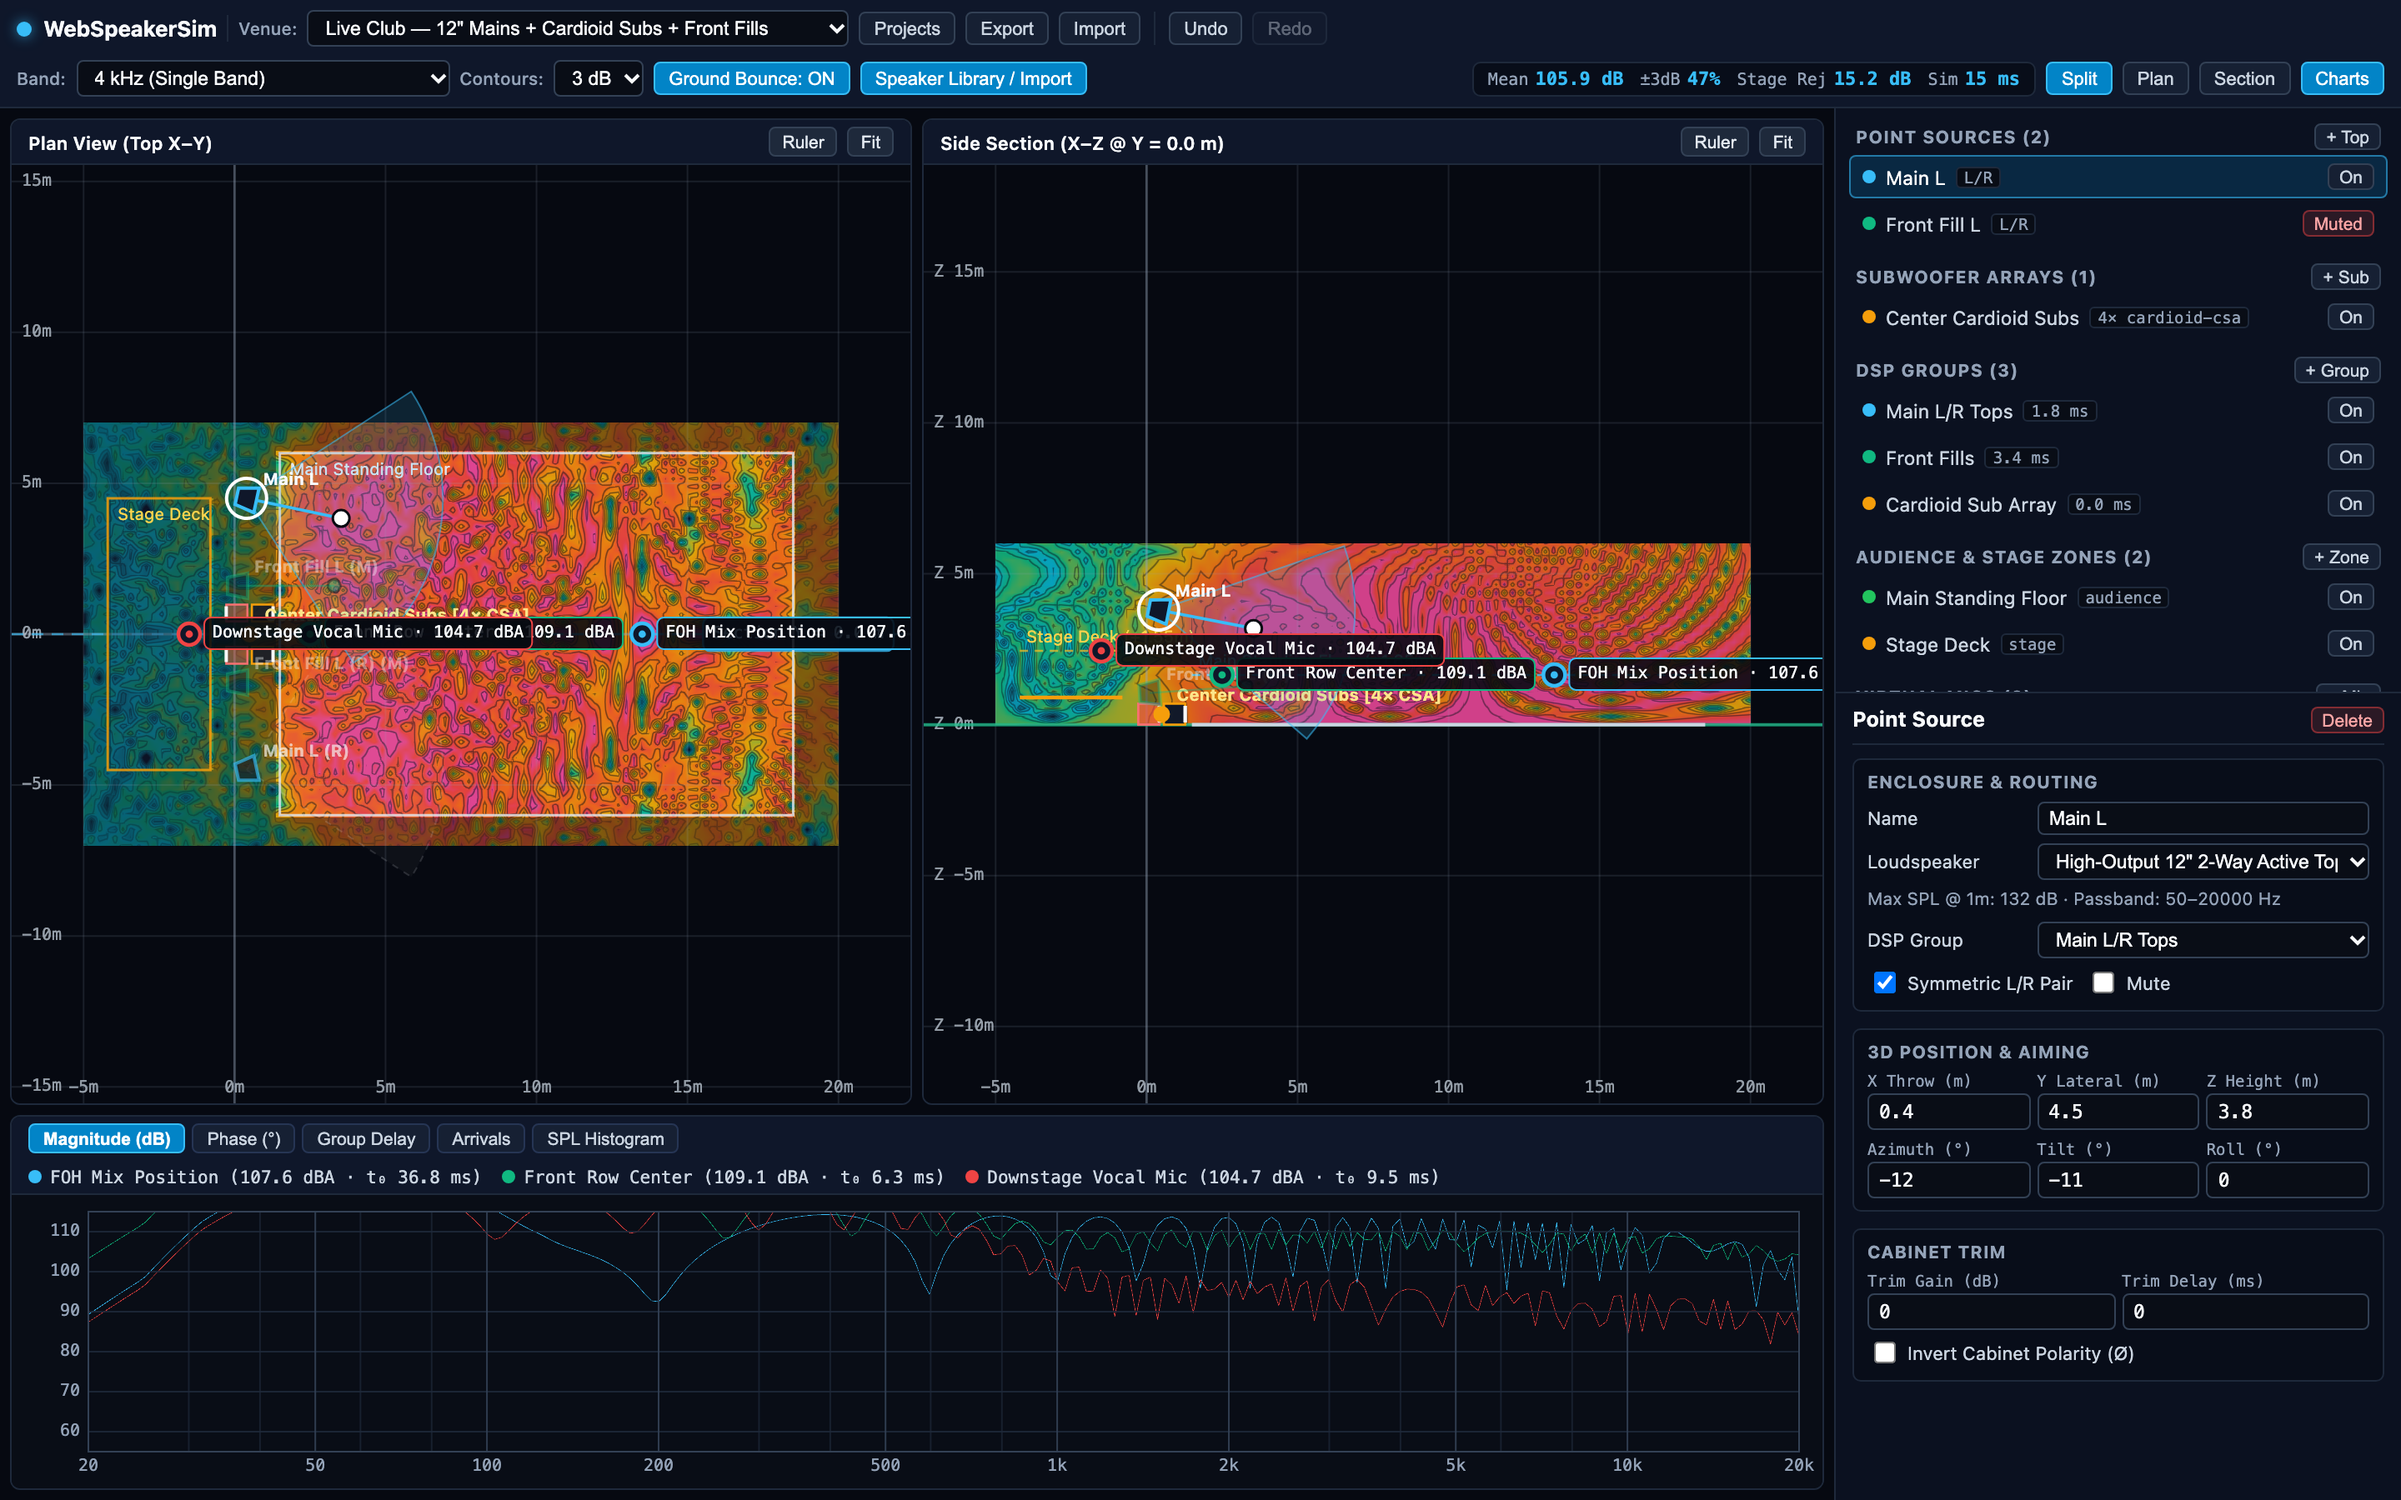
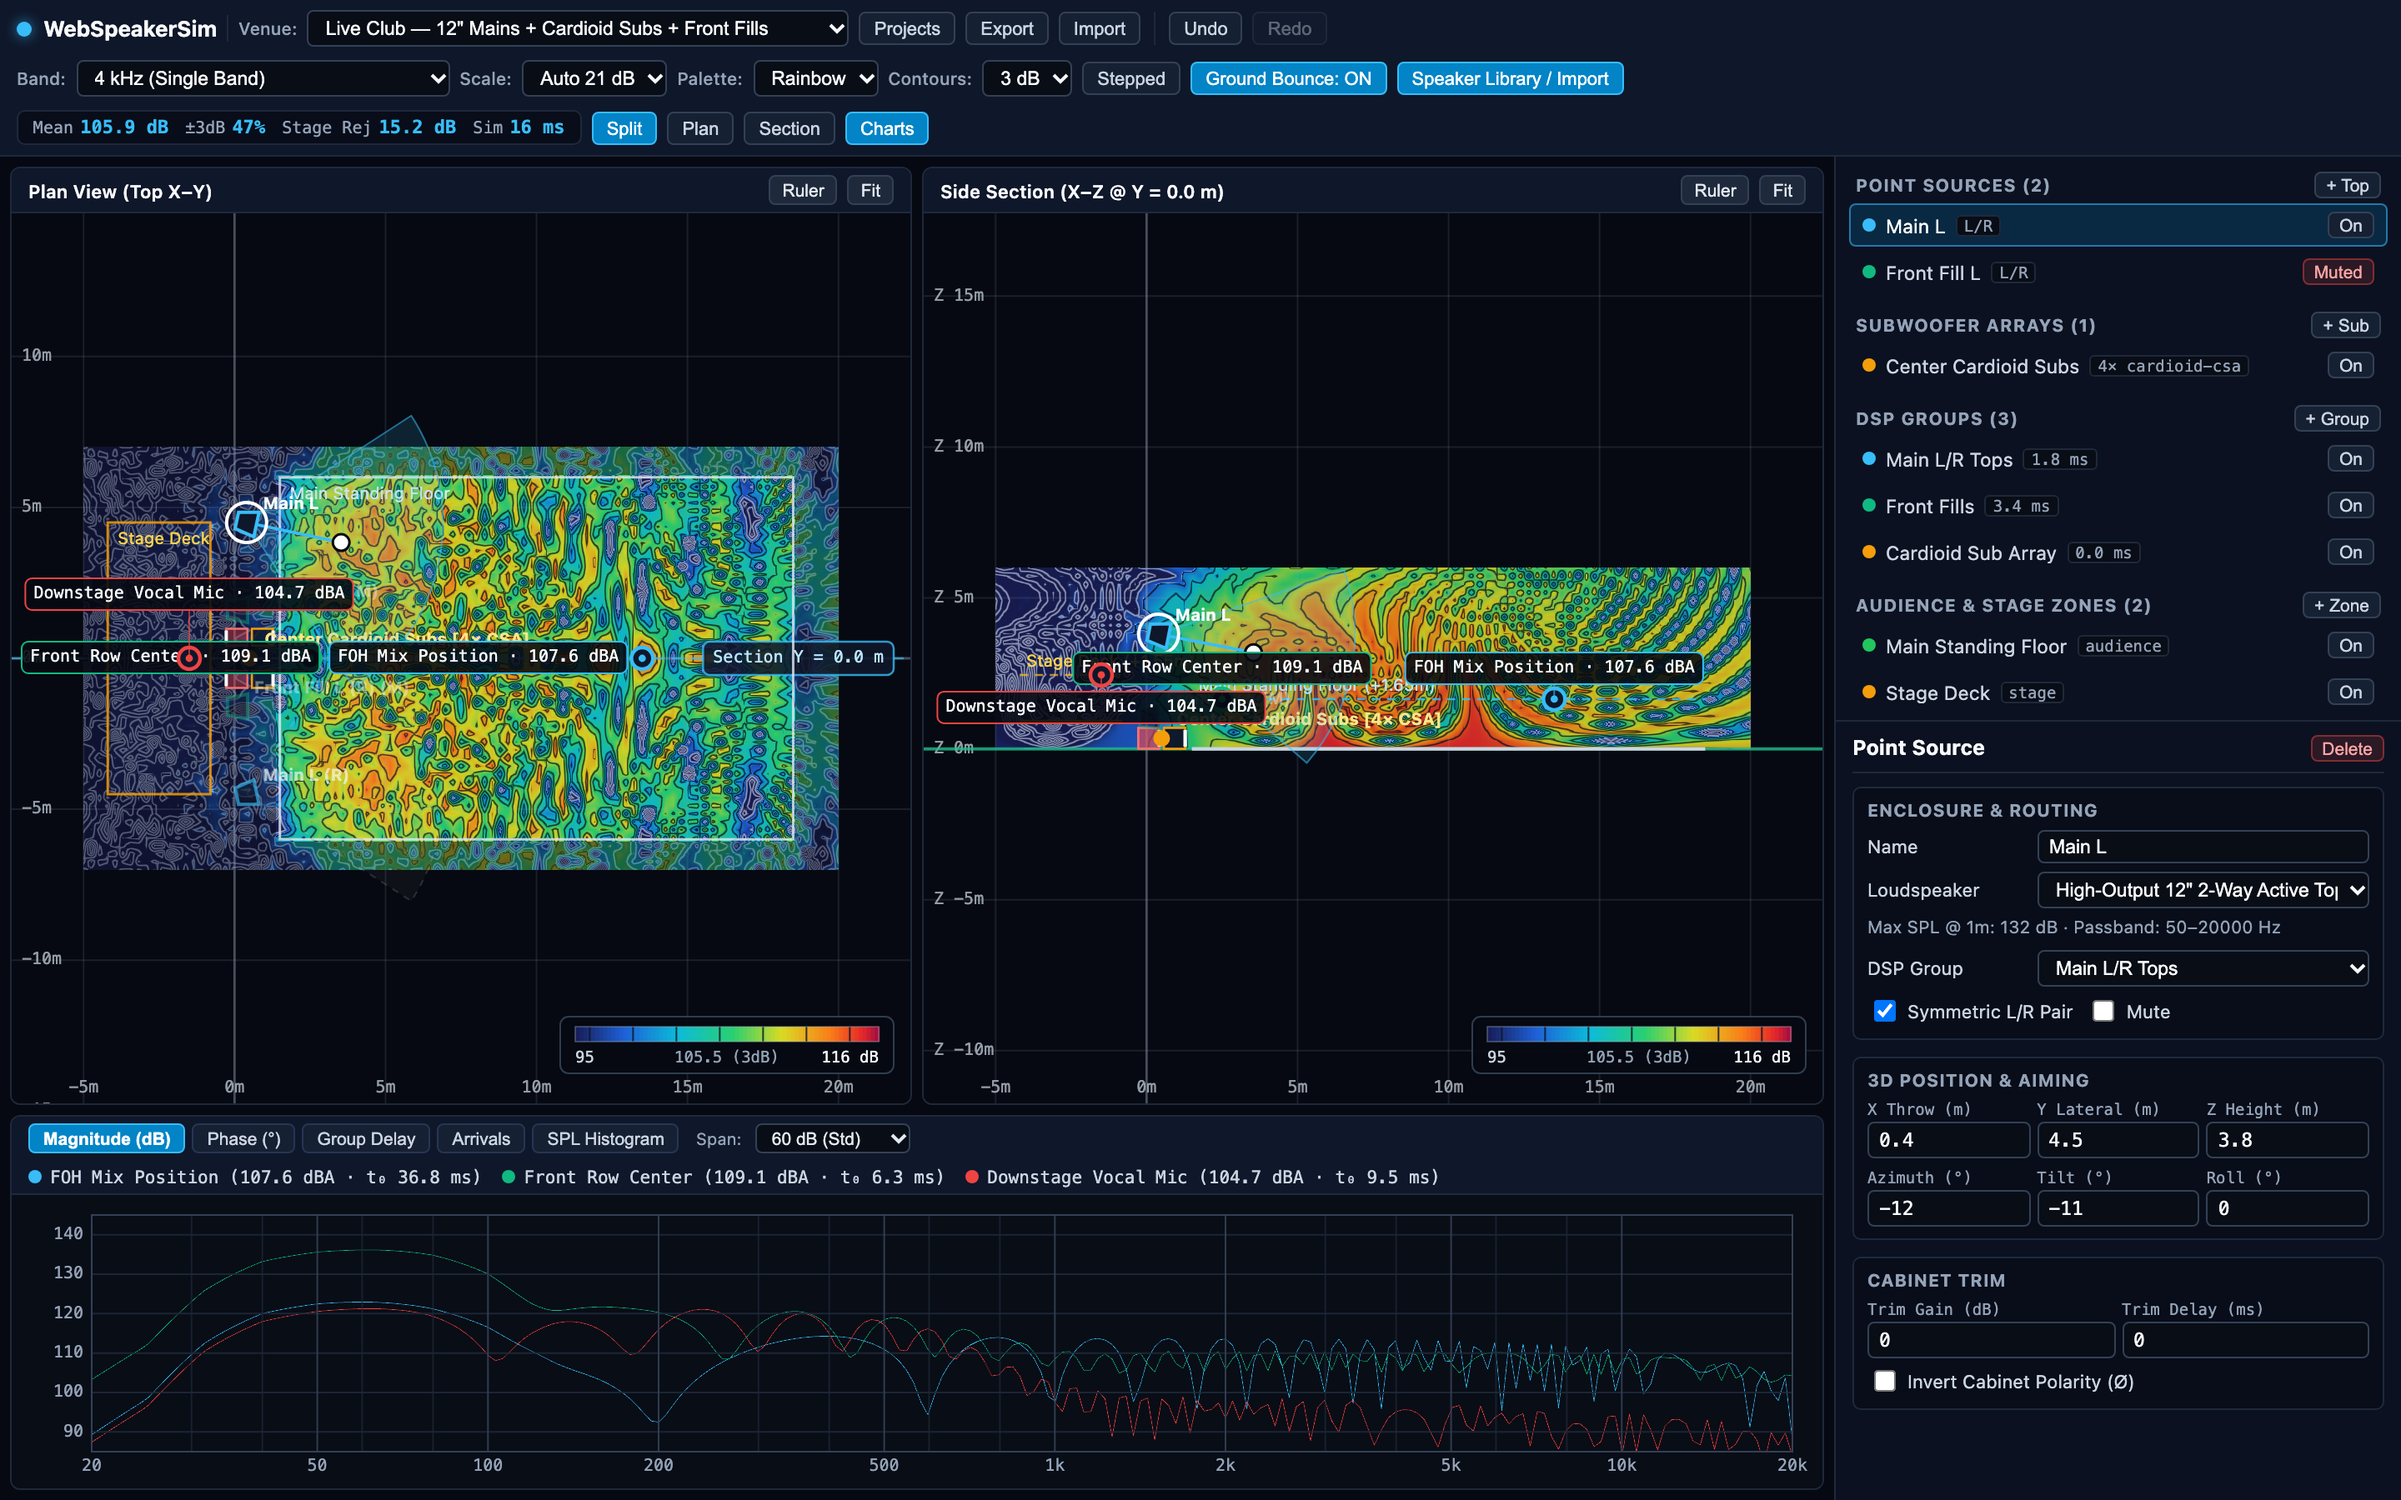
Avoid overlapping mic badges and refresh user guide screenshots

diff --git a/src/viewport/canvas-cad-painter.ts b/src/viewport/canvas-cad-painter.ts
@@ -103,6 +103,9 @@ export function paintViewportCadOverlay(
   // 1. Metric Grid
   drawMetricGrid(ctx, camera, cssWidth, cssHeight, mode);
 
+  // Track pill rectangles so Virtual Mic badges never collide with each other or Section label
+  const occupiedPills: Array<{ x: number; y: number; w: number; h: number }> = [];
+
   // 2. Ground Datum (Section View) or Centerline + Slice Line (Plan View)
   if (mode === 'section') {
     const groundRef = scene.reflectors.find((r) => r.id === DEFAULT_GROUND_REFLECTOR.id);
@@ -133,10 +136,13 @@ export function paintViewportCadOverlay(
     const label = `Section Y = ${sliceY.toFixed(1)} m`;
     ctx.font = '10px ui-monospace, SFMono-Regular, Menlo, monospace';
     const tw = ctx.measureText(label).width + 12;
+    const sx = cssWidth - tw - 10;
+    const sy = pSlice.py - 10;
+    occupiedPills.push({ x: sx - 3, y: sy - 2, w: tw + 6, h: 24 });
     ctx.fillStyle = 'rgba(15, 23, 42, 0.88)';
     ctx.strokeStyle = 'rgba(56, 189, 248, 0.8)';
     ctx.beginPath();
-    ctx.roundRect(cssWidth - tw - 10, pSlice.py - 10, tw, 20, 4);
+    ctx.roundRect(sx, sy, tw, 20, 4);
     ctx.fill();
     ctx.stroke();
     ctx.fillStyle = '#bae6fd';
@@ -322,8 +328,38 @@ export function paintViewportCadOverlay(
     ctx.font = '10px ui-monospace, SFMono-Regular, Menlo, monospace';
     const bw = ctx.measureText(badge).width + 10;
     const bh = 19;
-    const bx = p.px + 9 + bw <= cssWidth - 6 ? p.px + 9 : Math.max(6, p.px - 9 - bw);
-    const by = Math.max(6, Math.min(cssHeight - bh - 6, p.py - 10));
+    const clampX = (x: number) => Math.max(6, Math.min(cssWidth - bw - 6, x));
+    const clampY = (y: number) => Math.max(6, Math.min(cssHeight - bh - 6, y));
+    const candidates = [
+      { x: clampX(p.px + 9), y: clampY(p.py - 10), fitsRight: p.px + 9 + bw <= cssWidth - 6 },
+      { x: clampX(p.px - bw * 0.5), y: clampY(p.py - 28), fitsRight: true },
+      { x: clampX(p.px - bw * 0.5), y: clampY(p.py + 10), fitsRight: true },
+      { x: clampX(p.px - 9 - bw), y: clampY(p.py - 10), fitsRight: true },
+      { x: clampX(p.px - bw * 0.5), y: clampY(p.py - 48), fitsRight: true },
+      { x: clampX(p.px - bw * 0.5), y: clampY(p.py + 30), fitsRight: true },
+    ];
+    const overlapsAny = (cx: number, cy: number) =>
+      occupiedPills.some(
+        (r) => cx < r.x + r.w && cx + bw > r.x && cy < r.y + r.h && cy + bh > r.y
+      );
+    const chosen =
+      candidates.find((cnd) => cnd.fitsRight && !overlapsAny(cnd.x, cnd.y)) ?? candidates[1];
+    const bx = chosen.x;
+    const by = chosen.y;
+    occupiedPills.push({ x: bx - 2, y: by - 2, w: bw + 4, h: bh + 4 });
+
+    // Subtle leader tick when badge is displaced vertically from mic dot
+    if (Math.abs(by + bh * 0.5 - p.py) > 13) {
+      ctx.strokeStyle = mic.color;
+      ctx.globalAlpha = 0.65;
+      ctx.lineWidth = 1;
+      ctx.beginPath();
+      ctx.moveTo(p.px, p.py);
+      ctx.lineTo(Math.max(bx + 4, Math.min(bx + bw - 4, p.px)), by < p.py ? by + bh : by);
+      ctx.stroke();
+      ctx.globalAlpha = 1.0;
+    }
+
     ctx.fillStyle = 'rgba(6, 9, 17, 0.88)';
     ctx.strokeStyle = mic.color;
     ctx.lineWidth = 1;
@@ -631,9 +667,9 @@ function drawColormapLegendBar(
   cssWidth: number,
   cssHeight: number
 ): void {
-  if (cssWidth < 220 || cssHeight < 95) return;
+  if (cssWidth < 240 || cssHeight < 95) return;
 
-  const pillW = 172;
+  const pillW = 200;
   const pillH = 34;
   const x = cssWidth - pillW - 10;
   const y = cssHeight - pillH - 18;

diff --git a/docs/user-guide.md b/docs/user-guide.md
@@ -28,10 +28,12 @@ Open the local URL printed in your terminal (typically `http://localhost:5173`).
 
 1. **Top Control Bar:**
    - **Venue Preset & Project Controls (`Venue`, `Projects`, `Export`, `Import`, `Undo`, `Redo`):** Switch between built-in example venues, save named scenes inside your browser, or export/import portable `.wss-project.json` files.
-   - **Acoustic Analysis Controls (`Band`, `Contours`, `Ground Bounce`):**
+   - **Acoustic & Colormap Controls (`Band`, `Scale`, `Palette`, `Contours`, `Stepped`, `Ground Bounce`):**
      - **Band:** Choose what the heatmap displays—broadband pink noise (`dBA`, `dBC`, `dBZ`), a live-music spectral contour, the subwoofer passband (`31.5–100 Hz`), or any single octave band (`31.5 Hz` up to `16 kHz`).
-     - **Contours:** Draw `3 dB` or `6 dB` equal-level contour lines over the heatmap so you can judge drop-off even without relying on color alone.
-     - **Ground Bounce:** Toggle the 1st-order floor reflection (`Z = 0 m`) on or off to hear/see the effect of half-space subwoofer loading and floor comb filtering.
+     - **Scale:** Automatically window the SPL color scale around the room (`Auto 21 dB` default, `Auto ±3 dB` or `Auto ±6 dB` to spotlight subtle ripples across very even rooms, `Auto 36 dB` for wide stage-rejection views, or `Manual` to enter exact Min/Max dB limits).
+     - **Palette & Stepped:** Switch between high-discrimination **`Rainbow`**, monotonic luminance **`Thermal`**, or colorblind-safe **`Viridis`**, and click **`Stepped`** to quantize smooth gradients into discrete dB isobar bands. Each viewport also displays a live dB colorbar legend in its bottom-right corner.
+     - **Contours:** Draw `1 dB`, `2 dB`, `3 dB`, or `6 dB` equal-level contour lines over both viewports (`Off` hides contours).
+     - **Ground Bounce:** Toggle the 1st-order floor reflection (`Z = 0 m`) on or off to inspect half-space subwoofer loading and floor comb filtering.
    - **Live Coverage Readout (`Mean`, `±3dB`, `Stage Rej`, `Sim`):**
      - **Mean:** Average predicted SPL across all active audience zones.
      - **±3dB:** Percentage of the audience listening area that falls within `±3 dB` of the average level (higher = smoother front-to-back and side-to-side coverage; `75%+` is highlighted in green).
@@ -47,7 +49,7 @@ Open the local URL printed in your terminal (typically `http://localhost:5173`).
    - **Bottom half (Inspector):** Displays editable coordinates, aiming angles, subwoofer array calculators, crossovers/EQ, or alignment tools for whichever item is currently selected.
 
 4. **Bottom Chart Drawer:**
-   - Displays predicted responses at every active **Virtual Microphone** (`Magnitude (dB)`, `Phase (°)`, `Group Delay`, and `Arrivals`), plus the venue-wide **`SPL Histogram`**.
+   - Displays auto-scaled responses at every active **Virtual Microphone** (`Magnitude (dB)` with a `30 / 60 / 80 dB` vertical span selector, `Phase (°)`, `Group Delay`, and `Arrivals`), plus the venue-wide **`SPL Histogram`**.
 
 ### Understanding the 3D Room Coordinates
 
@@ -87,7 +89,7 @@ Look at two clues right away:
 1. With **`Main L`** selected, verify **Symmetric L/R Pair** is checked—any position or angle tweak you make to `Main L` automatically updates `Main L (R)` in mirror symmetry.
 2. Adjust **Z Height** (`3.8 m`), **Azimuth** (`-12°` inward toe-in), and **Tilt** (`-11°` aiming roughly two-thirds of the way back into the room so louder near-field off-axis energy balances distance loss toward the back).
 3. Unmute **`Front Fill L`** (click **`Muted`** $\rightarrow$ **`On`**) to cover the near-field center gap with compact 8" cabinets sitting on the stage lip (`Z = 1.05 m`, `Tilt = -4°`).
-4. Switch **Band** back to **`Broadband Pink (dBA)`** and click the **`SPL Histogram`** tab in the bottom chart drawer.
+4. Switch **Band** back to **`Broadband Pink (dBA)`**, set **Scale** to **`Auto ±6 dB`** with **`2 dB`** contours to inspect fine coverage variations, and click the **`SPL Histogram`** tab in the bottom chart drawer.
 
 ![Balanced Club Coverage & SPL Histogram](./images/03-frontfills-coverage-histogram.png)
 
@@ -102,7 +104,7 @@ The **SPL Histogram** shows a tight green cluster centered around `105.9 dBA`, a
 ### Step 1: Observe Stage Wash with a Standard Broadside Line
 
 1. Load `Live Club — 12" Mains + Cardioid Subs + Front Fills` and set **Band** to **`63 Hz (Single Band)`**.
-2. *(Optional visual tip)* When viewing a full-output single sub frequency on a multi-sub array, click **Atmosphere, Colormap & Venue Bounds** at the bottom of the scene tree and set **Min / Max SPL** to `102` and `138 dB` so the full dynamic range maps cleanly across blue–green–orange–red.
+2. Set **Scale** in the top bar to **`Auto 36 dB`** so both peak audience bass and quieter stage nulls fit comfortably inside the color scale.
 3. Click **`Center Cardioid Subs`** under **Subwoofer Arrays** in the scene tree.
 4. Change **Array Mode** to **`Broadside Line`**.
 
@@ -229,3 +231,4 @@ Even if you only have a manufacturer's 1-page spec sheet, you can build a calibr
 | `L` | Open Loudspeaker Library, Spec Builder & File Importer |
 | `1` / `2` / `3` | Switch Viewport Layout (`Split` / `Plan` / `Section`) |
 | `Escape` | Close open modal or clear selection |
+
